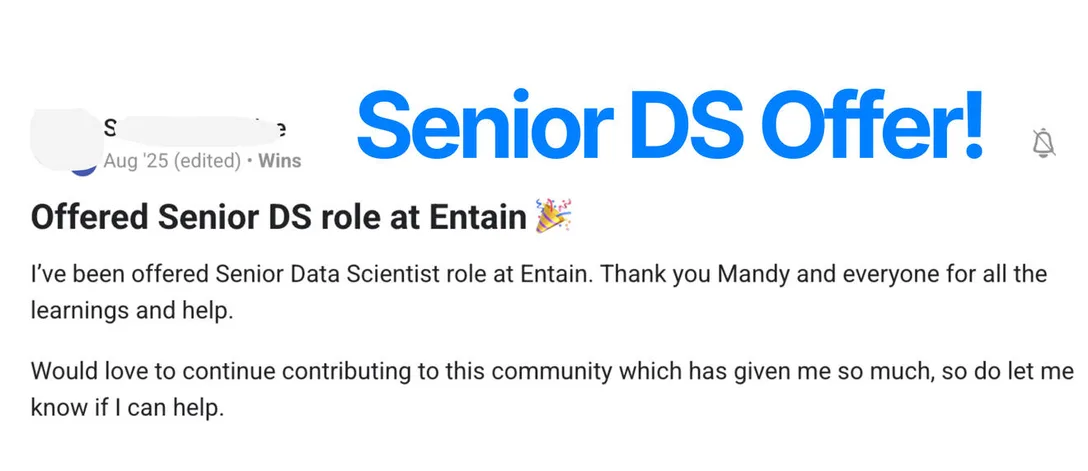
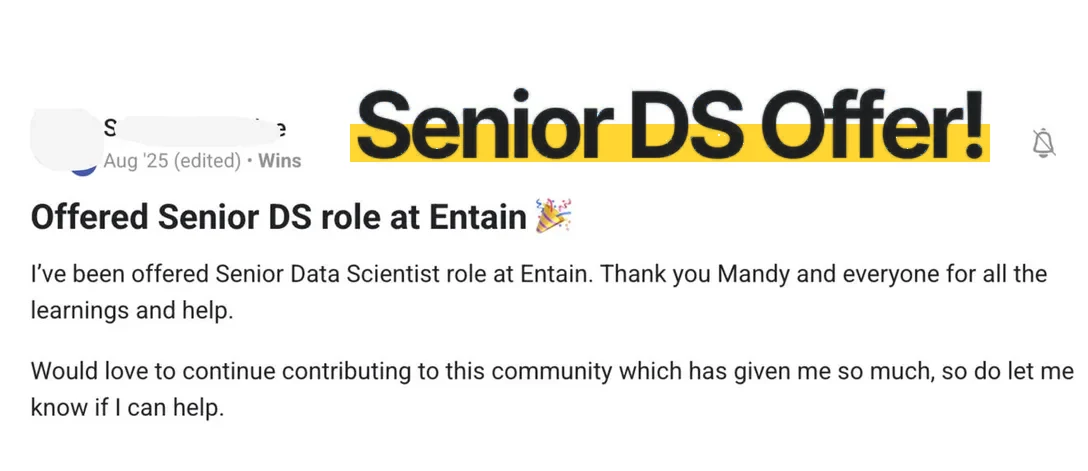
Larger two-column stories; recolour win-card headlines to brand yellow
- Two-column video stories now kick in at 1200px, use a wider area and
  bigger text so they read comfortably.
- The image01-14 win cards on hiredindata.com had blue "X Offer!" headlines
  from Egor's brand; they're now dark text on the yellow highlighter.

Claude-Session: https://claude.ai/code/session_01GRsyD4mo3uCsqLoKPgUPBT

Changed region(s): [[0.3125, 0.1783, 0.9375, 0.3567]]

diff --git a/mandy/index.html b/mandy/index.html
@@ -38,17 +38,23 @@
   <link rel="stylesheet" href="styles.css">
   <style>:root { --accent: #ffd633; --accent-ink: #1c1d20; --accent-text: #1c1d20; --mark: #ffd633; --bg: #ffffff; --bg-alt: #fbf7f1; --booking-min-h: 750px; }</style>
 <style>
-  /* Featured client stories: two columns on wide screens. */
-  @media (min-width: 60rem) {
-    .stories { display: grid; grid-template-columns: 1fr 1fr; gap: 0 2.5rem; align-items: start; }
-    .stories > .story { display: flex; flex-direction: column; padding: 2.5rem 0; }
-    .stories > .story:first-child { border-top: 1px solid var(--line); padding-top: 2.5rem; }
+  /* Featured client stories: two columns on wide screens. The grid is wider
+     than the page's text column so each story keeps a readable width. */
+  @media (min-width: 75rem) {
+    .stories { display: grid; grid-template-columns: 1fr 1fr; gap: 0 3rem; align-items: start;
+               width: min(88rem, calc(100vw - 4rem)); position: relative; left: 50%; transform: translateX(-50%); }
+    .stories > .story { display: flex; flex-direction: column; padding: 3rem 0; }
+    .stories > .story:first-child { border-top: 1px solid var(--line); padding-top: 3rem; }
     .stories > .story:nth-child(-n+2) { border-top: 0; padding-top: 0; }
-    .stories > .story .story-hero { order: 0; gap: 1.1rem; margin-bottom: 1.25rem; }
-    .stories > .story .proof-row { order: 1; margin-bottom: 1.25rem; }
-    .stories > .story .three-col { order: 2; grid-template-columns: 1fr; gap: 0.75rem; margin-bottom: 0; }
-    .stories > .story .hero-photo { width: 4.5rem; height: 4.5rem; }
-    .stories > .story .hero-text h3 { font-size: 1.1rem; }
+    .stories > .story .story-hero { order: 0; gap: 1.25rem; margin-bottom: 1.5rem; }
+    .stories > .story .proof-row { order: 1; margin-bottom: 1.5rem; }
+    .stories > .story .three-col { order: 2; grid-template-columns: 1fr; gap: 0.9rem; margin-bottom: 0; }
+    .stories > .story .hero-photo { width: 5.5rem; height: 5.5rem; }
+    .stories > .story .kicker { font-size: 0.82rem; }
+    .stories > .story .hero-text h3 { font-size: 1.35rem; line-height: 1.3; }
+    .stories > .story .three-col .card { padding: 1.4rem 1.6rem; }
+    .stories > .story .three-col .card h4 { font-size: 0.8rem; }
+    .stories > .story .three-col .card ul { font-size: 1.02rem; line-height: 1.6; }
   }
 </style>
 </head>

diff --git a/root/index.html b/root/index.html
@@ -38,17 +38,23 @@
   <link rel="stylesheet" href="styles.css">
   <style>:root { --accent: #ffd633; --accent-ink: #1c1d20; --accent-text: #1c1d20; --mark: #ffd633; --bg: #ffffff; --bg-alt: #fbf7f1; --booking-min-h: 750px; }</style>
 <style>
-  /* Featured client stories: two columns on wide screens. */
-  @media (min-width: 60rem) {
-    .stories { display: grid; grid-template-columns: 1fr 1fr; gap: 0 2.5rem; align-items: start; }
-    .stories > .story { display: flex; flex-direction: column; padding: 2.5rem 0; }
-    .stories > .story:first-child { border-top: 1px solid var(--line); padding-top: 2.5rem; }
+  /* Featured client stories: two columns on wide screens. The grid is wider
+     than the page's text column so each story keeps a readable width. */
+  @media (min-width: 75rem) {
+    .stories { display: grid; grid-template-columns: 1fr 1fr; gap: 0 3rem; align-items: start;
+               width: min(88rem, calc(100vw - 4rem)); position: relative; left: 50%; transform: translateX(-50%); }
+    .stories > .story { display: flex; flex-direction: column; padding: 3rem 0; }
+    .stories > .story:first-child { border-top: 1px solid var(--line); padding-top: 3rem; }
     .stories > .story:nth-child(-n+2) { border-top: 0; padding-top: 0; }
-    .stories > .story .story-hero { order: 0; gap: 1.1rem; margin-bottom: 1.25rem; }
-    .stories > .story .proof-row { order: 1; margin-bottom: 1.25rem; }
-    .stories > .story .three-col { order: 2; grid-template-columns: 1fr; gap: 0.75rem; margin-bottom: 0; }
-    .stories > .story .hero-photo { width: 4.5rem; height: 4.5rem; }
-    .stories > .story .hero-text h3 { font-size: 1.1rem; }
+    .stories > .story .story-hero { order: 0; gap: 1.25rem; margin-bottom: 1.5rem; }
+    .stories > .story .proof-row { order: 1; margin-bottom: 1.5rem; }
+    .stories > .story .three-col { order: 2; grid-template-columns: 1fr; gap: 0.9rem; margin-bottom: 0; }
+    .stories > .story .hero-photo { width: 5.5rem; height: 5.5rem; }
+    .stories > .story .kicker { font-size: 0.82rem; }
+    .stories > .story .hero-text h3 { font-size: 1.35rem; line-height: 1.3; }
+    .stories > .story .three-col .card { padding: 1.4rem 1.6rem; }
+    .stories > .story .three-col .card h4 { font-size: 0.8rem; }
+    .stories > .story .three-col .card ul { font-size: 1.02rem; line-height: 1.6; }
   }
 </style>
 </head>

diff --git a/root/testimonials/index.html b/root/testimonials/index.html
@@ -442,15 +442,18 @@
   }
   @media print { .site-footer, .site-header, .floating-cta { display: none; } }
   /* ---- two-column story layout (wide screens) ---- */
-  .story-columns { max-width: 1240px; margin: 0 auto; }
-  @media (min-width: 1000px) {
-    .story-columns { display: grid; grid-template-columns: 1fr 1fr; column-gap: 2.5rem; padding: 0 2rem; align-items: start; }
-    .story-columns > .story { display: flex; flex-direction: column; max-width: none; margin: 0; padding: 3rem 0; }
-    .story-columns .story-hero { order: 0; gap: 1.2rem; margin-bottom: 1.5rem; }
-    .story-columns .proof-row { order: 1; gap: 1.25rem; margin-bottom: 1.5rem; }
-    .story-columns .three-col { order: 2; grid-template-columns: 1fr; gap: 0.75rem; margin-bottom: 0; }
-    .story-columns .hero-photo { width: 84px; height: 84px; }
-    .story-columns .story h2 { font-size: 1.2rem; }
+  .story-columns { max-width: 1440px; margin: 0 auto; }
+  @media (min-width: 1200px) {
+    .story-columns { display: grid; grid-template-columns: 1fr 1fr; column-gap: 3rem; padding: 0 2.5rem; align-items: start; }
+    .story-columns > .story { display: flex; flex-direction: column; max-width: none; margin: 0; padding: 3.5rem 0; }
+    .story-columns .story-hero { order: 0; gap: 1.4rem; margin-bottom: 1.75rem; }
+    .story-columns .proof-row { order: 1; gap: 1.5rem; margin-bottom: 1.75rem; }
+    .story-columns .three-col { order: 2; grid-template-columns: 1fr; gap: 0.9rem; margin-bottom: 0; }
+    .story-columns .hero-photo { width: 104px; height: 104px; }
+    .story-columns .story h2 { font-size: 1.5rem; line-height: 1.35; }
+    .story-columns .card { padding: 1.5rem 1.7rem; }
+    .story-columns .card h3 { font-size: 0.85rem; }
+    .story-columns .card ul { font-size: 1.02rem; line-height: 1.6; }
   }
 </style>
 </head>
